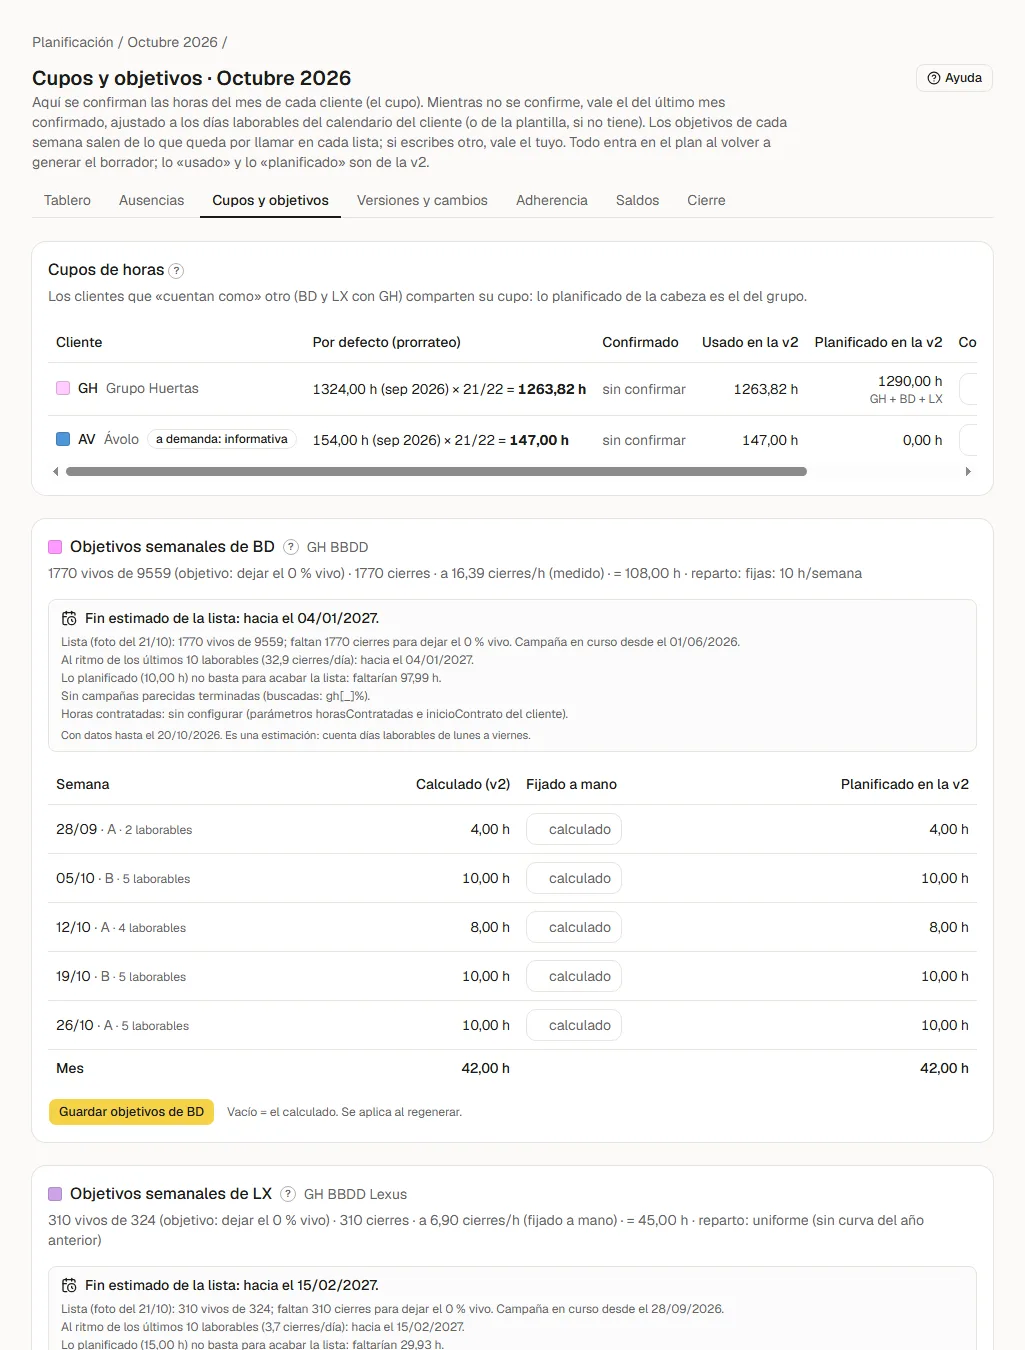
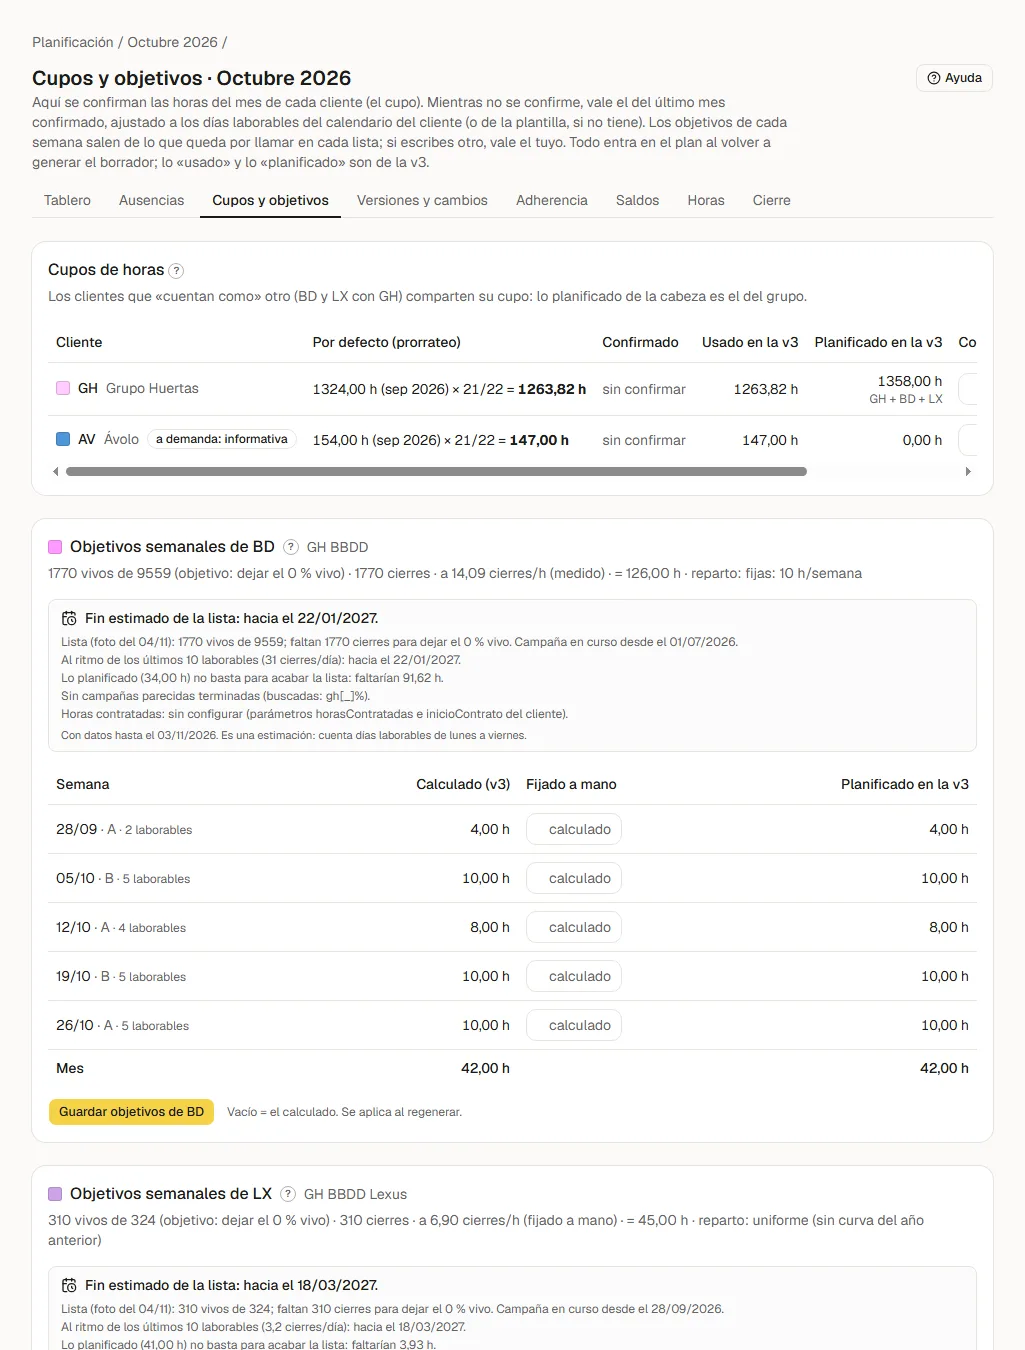
Ayuda: capturas nuevas en modo demo, pantalla Horas, semana partida y campana
Las 11 capturas de la ayuda rehechas con una SQLite de demo nueva (también
la de «Horas»), textos de la semana partida en el tablero, de la campana en
«Hoy», dos palabras nuevas y «Horas» en la rutina de la guía HTML.

diff --git a/src/components/planificacion/ayuda-contenido.ts b/src/components/planificacion/ayuda-contenido.ts
@@ -151,6 +151,10 @@ export const TEMAS_AYUDA: TemaAyuda[] = [
         haz: "Esa semana le faltan 2 horas para su contrato. En azul, le sobran.",
       },
       {
+        caso: "La semana tiene días en gris de otro mes.",
+        haz: "La semana se parte entre dos meses y se ve entera. Los días del otro mes salen en gris y se cambian en el plan de ese mes. Las horas y el saldo de la izquierda son solo de este mes.",
+      },
+      {
         caso: "No me deja cambiar nada.",
         haz: "Solo se cambia el borrador, y con usuario de supervisión. Si el mes ya está publicado, pulsa «Nuevo borrador desde la vN».",
       },
@@ -407,6 +411,10 @@ export const TEMAS_AYUDA: TemaAyuda[] = [
         caso: "La barra de abajo sale gris.",
         haz: "Está conectada con un usuario que no es de nuestros clientes.",
       },
+      {
+        caso: "Suena la campana de arriba.",
+        haz: "Hay una alerta nueva. Las alertas salen en la campana de arriba en cualquier página. Púlsala para verlas; «Marcar como vista» hace que deje de sonar. Ahí mismo quitas el sonido o cambias cada cuántos minutos se recuerdan las rojas.",
+      },
     ],
   },
   {
@@ -499,6 +507,7 @@ export const TEMAS_AYUDA: TemaAyuda[] = [
     etiqueta: "Horas",
     titulo: "Horas: contrato y horas conectadas",
     intro: "Las horas de contrato de cada persona al lado de las que estuvo conectada, por día, por semana y del mes.",
+    captura: "horas",
     queVeo: [
       "Arriba eliges cómo verlo: «Por día», «Por semana» o «Mes».",
       "«Por persona»: en cada casilla, las horas conectadas y, debajo, las de contrato y la diferencia. En cursiva, lo que aún no ha pasado (sale del plan).",
@@ -901,6 +910,8 @@ export const GLOSARIO_AYUDA: [string, string][] = [
   ["Aviso (amarillo)", "Algo raro que puede estar bien: se publica explicando el motivo."],
   ["Conectada (logada)", "Con la sesión abierta en Altitude."],
   ["Saldo", "Horas que le sobran (+) o le faltan (−) a una persona para su contrato."],
+  ["Contrato del día", "La parte del contrato semanal que toca ese día, según su turno: un lunes de 9 h lleva más que un viernes de 4 h."],
+  ["Semana partida", "La primera o la última semana del mes, que tiene días de otro mes. Cada mes lleva el saldo de sus días."],
   ["Arrastre", "El saldo que trae de los meses anteriores."],
   ["Adherencia", "Si se cumplió el plan: conectada cuando y donde tocaba."],
   ["Cubierto por otro", "Conectada con un usuario que cubre ese cliente sin ser el suyo (BD o LX en GH; en GH esperando a Ávolo)."],

diff --git a/scripts/guia-supervision-html.ts b/scripts/guia-supervision-html.ts
@@ -68,7 +68,8 @@ const GRUPOS: { id: string; nombre: string; corto: string; intro: string; temas:
     id: "fin-de-mes",
     nombre: "5 · Fin de mes",
     corto: "Fin de mes",
-    intro: "Cuando acaba el mes (o durante, para ir viendo): ¿se cumplió el plan?, ¿a quién le sobran o le faltan horas? y el resumen por cliente.",
+    intro:
+      "Cuando acaba el mes (o durante, para ir viendo): ¿se cumplió el plan?, ¿a quién le sobran o le faltan horas?, las horas de contrato frente a las conectadas y el resumen por cliente.",
     temas: ["adherencia", "saldos", "horas", "cierre"],
   },
   {
@@ -87,7 +88,7 @@ const RUTINA: [string, string, string[]][] = [
   ["Cada lunes", "Mira «Para revisar»: por la noche se recalculan las semanas que aún no han empezado.", ["publicar"]],
   ["Antes del día 20", "Apunta las ausencias del mes siguiente y confirma su bolsa.", ["ausencias", "preparar"]],
   ["Del 20 a fin de mes", "Revisa el borrador del mes siguiente, cámbialo y publícalo.", ["preparar", "publicar"]],
-  ["Al empezar el mes", "Mira la adherencia, los saldos y el cierre del mes que acaba de terminar.", ["fin-de-mes"]],
+  ["Al empezar el mes", "Mira la adherencia, los saldos, las horas y el cierre del mes que acaba de terminar.", ["fin-de-mes"]],
 ];
 
 // ---------- Utilidades ----------

diff --git a/docs/registro-sesion-04-noviembre-2026.md b/docs/registro-sesion-04-noviembre-2026.md
@@ -145,10 +145,40 @@ del build; el tercero compiló. `verificar` sin errores. Comprobado desde
 - Horas de noviembre en 51 ms; campana con 5 alertas en 400 ms.
 - Sin sesión, las rutas nuevas mandan al login.
 
+## 05/11: ayuda, capturas y guías
+
+- **SQLite de demo nueva** (no quedaba ninguna de sesiones anteriores), en
+  el scratchpad y con `RDB_MOCK=1`: `seed:admin`, una usuaria `supervision`
+  insertada sin cambio de contraseña pendiente (el script de capturas entra
+  con ese rol), `planificacion:semilla`, `planificacion:agregados` del
+  01/07 al 03/11, octubre generado y su v1 publicada a mano, tres ausencias
+  de ejemplo, el borrador de octubre regenerado después (si no, el tablero
+  sale con 8 incidencias duras por las ausencias) y el borrador de noviembre
+  para «Hoy». Servidor `next start` en modo demo en el puerto 3200, desde la
+  copia del proyecto.
+- **Capturas**: las 11 rehechas con `scripts/ayuda-capturas.mjs`, «Horas»
+  nueva (4 puntos). El tablero de octubre enseña la semana partida.
+- **Textos** (`ayuda-contenido.ts`): «La semana tiene días en gris de otro
+  mes» en el tablero, «Suena la campana de arriba» en Hoy, «Contrato del
+  día» y «Semana partida» en las palabras, y «las horas» en la rutina de
+  principio de mes.
+- **Guía de Claude Docs**: las 11 capturas con los números pintados,
+  sección «Horas» en «5 · Fin de mes», la regla nueva del contrato en
+  Saldos (y en la «Guía detallada», que aún decía «entre cinco» y
+  «se prorratea por laborables»), la fila de la semana partida en el
+  tablero, la campana en «4 · Cada día» y en la guía detallada, la rutina
+  de «Empieza aquí» y dos palabras.
+- **Guía HTML** regenerada (`npm run guia:html`, 1,5 MB, con las 11
+  capturas).
+- El `next dev` del puerto 3000 sigue sin reiniciar: el sistema de permisos
+  no deja parar ese proceso ni con la petición de Christian.
+
 ## Pendiente
 
 - Avisar a supervisión de que los saldos acumulados cambian.
 - Arreglar el «database is locked» del build (mejora 11 de CLAUDE.md).
+- Copiar `guia-supervision.html` a la carpeta compartida.
+- Reiniciar el `next dev` del puerto 3000 (Christian).
 - Directiva de los avisos de Windows en los PC de supervisión.
 - Capturas de la ayuda en modo demo, guía de Claude Docs y guía HTML con
   «Horas» y la semana partida.

diff --git a/CLAUDE.md b/CLAUDE.md
@@ -1719,8 +1719,12 @@ tocar nada:
       a mitad de semana el saldo ya no infla los días largos.
 - [ ] Directiva de los avisos de Windows en los PC de supervisión
       (`docs/notificaciones-escritorio.md`).
-- [ ] Capturas de la ayuda (modo demo), guía de Claude Docs y guía HTML con
-      la pestaña «Horas» y la semana partida.
+- [x] 05/11: ayuda al día. Las 11 capturas rehechas en modo demo (también
+      «Horas», nueva) con una SQLite de demo nueva, porque no quedaba
+      ninguna: cómo se montó, en `docs/registro-sesion-04-noviembre-2026.md`.
+      Textos nuevos: semana partida (tablero y Saldos), campana (Hoy),
+      «Horas» en la rutina y dos palabras. Guía de Claude Docs y guía HTML
+      al día; falta copiar `guia-supervision.html` a la carpeta compartida.
 
 ## Mejoras recomendadas pendientes (auditoría 10/09/2026)
 
